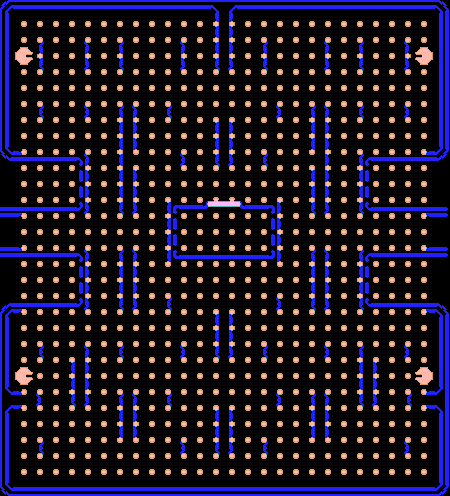
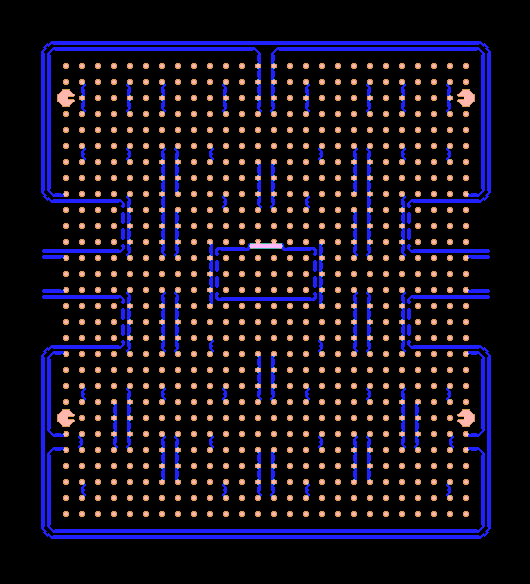
Pacman can now turn only if he's on a dot. He moves constantly, and remembers the player input and executes on it when he reaches a dot. I also adjusted the game board to align the coordinates correctly.

diff --git a/src/Pacman.java b/src/Pacman.java
@@ -29,7 +29,7 @@ public class Pacman extends Actor {
 	public static final int DOWN = 2;
 	public static final int LEFT = 3;
 	
-	
+	private KeyCode movement;
 	public Pacman() {
 //		String path = Pacman.class.getClassLoader().getResource("resources/pacman_closed.png").toString();
 //		Image img = new Image(path);
@@ -53,13 +53,14 @@ public class Pacman extends Actor {
 		String rightC = Pacman.class.getClassLoader().getResource("resources/pac_right_closed.png").toString();
 		rightClosed = new Image(rightC);
 		
-		setImage(leftClosed);
-		direction = LEFT;
+		setImage(rightClosed);
+		direction = RIGHT;
 		
 		isClosed = true;
 		isAlive = true;
 	}
 
+	
 	@Override
 	public void act() {
 		// Making pac-man open and close with each animation frame.
@@ -83,43 +84,75 @@ public class Pacman extends Actor {
 		
 		//basic key commands to move pac-man. I'll have to 
 		//adjust it to account for the walls in pac-man
-		
+		boolean canMove = false;
+//		System.out.println();
+//		System.out.println("X: " + (int)getX());
+//		System.out.println("Y: " + (int)getY());
+		if(((int)getX() + 13)%16 == 0 && ((int)getY() + 13)%16==0)
+		{
+			//when pacman is at an integer grid point
+//			System.out.println("Turned!");
+			canMove = true;
+		}
 		
 		if(getWorld().isKeyDown(KeyCode.LEFT))
 		{
-			move(-3, 0);
-			direction = LEFT;
-			if(getOneIntersectingObject(Wall.class) != null)
-			{
-				move(3, 0);
-			}
+			movement = KeyCode.LEFT;
 		}
 		else if(getWorld().isKeyDown(KeyCode.RIGHT))
 		{
-			move(3, 0);
-			direction = RIGHT;
-			if(getOneIntersectingObject(Wall.class) != null)
-			{
-				move(-3, 0);
-			}
+			movement = KeyCode.RIGHT;
+//			direction = RIGHT;
+//			if(getOneIntersectingObject(Wall.class) != null)
+//			{
+//				move(-3, 0);
+//			}
 		}
 		else if(getWorld().isKeyDown(KeyCode.UP))
 		{
-			move(0, -3);
-			direction = UP;
-			if(getOneIntersectingObject(Wall.class) != null)
-			{
-				move(0, 3);
-			}
+			movement = KeyCode.UP;
+//			direction = UP;
+//			if(getOneIntersectingObject(Wall.class) != null)
+//			{
+//				move(0, 3);
+//			}
 		}
 		else if(getWorld().isKeyDown(KeyCode.DOWN))
 		{
-			move(0, 3);
-			direction = DOWN;
-			if(getOneIntersectingObject(Wall.class) != null)
-			{
-				move(0, -3);
+			movement = KeyCode.DOWN;
+//			direction = DOWN;
+//			if(getOneIntersectingObject(Wall.class) != null)
+//			{
+//				move(0, -3);
+//			}
+		}
+		
+		if(canMove)
+		{
+			if(movement == KeyCode.LEFT) {
+				direction = LEFT;
+				move(-1, 0);
 			}
+			else if(movement == KeyCode.RIGHT) {
+				direction = RIGHT;
+				move(1, 0);
+			}
+			else if (movement == KeyCode.UP) {
+				direction = UP;
+				move(0, -1);
+			}
+			else if(movement == KeyCode.DOWN) {
+				direction = DOWN;
+				move(0, 1);
+			}
+		}
+		else
+		{
+			if(direction == LEFT) move(-1, 0);
+			else if(direction == RIGHT) move(1, 0);
+			else if(direction == UP) move(0, -1);
+			else if(direction == DOWN) move(0, 1);
+			
 		}
 	
 		

diff --git a/src/Actor.java b/src/Actor.java
@@ -27,6 +27,15 @@ public abstract class Actor extends javafx.scene.image.ImageView{
 		return getBoundsInParent().getHeight();
 	}
 	
+	public double getCenterX()
+	{
+		return getX() + getWidth()/2;
+	}
+	public double getCenterY()
+	{
+		return getY() + getHeight()/2;
+	}
+	
 	public <A extends Actor>List<A> getIntersectingObjects(java.lang.Class<A> cls) {
 		ArrayList<A>list=new ArrayList<>();
 		for(Node n : getWorld().getChildren()) {

diff --git a/src/Game.java b/src/Game.java
@@ -40,8 +40,8 @@ public class Game extends Application {
 //				world.add(dot);
 //			}
 //		}
-		pac.setX(0);
-		pac.setY(0);
+		pac.setX(51);
+		pac.setY(51);
 		world.start();
 		String back_image = Game.class.getClassLoader().getResource("resources/dot_board.png").toString();
 		Image test = new Image(back_image);
